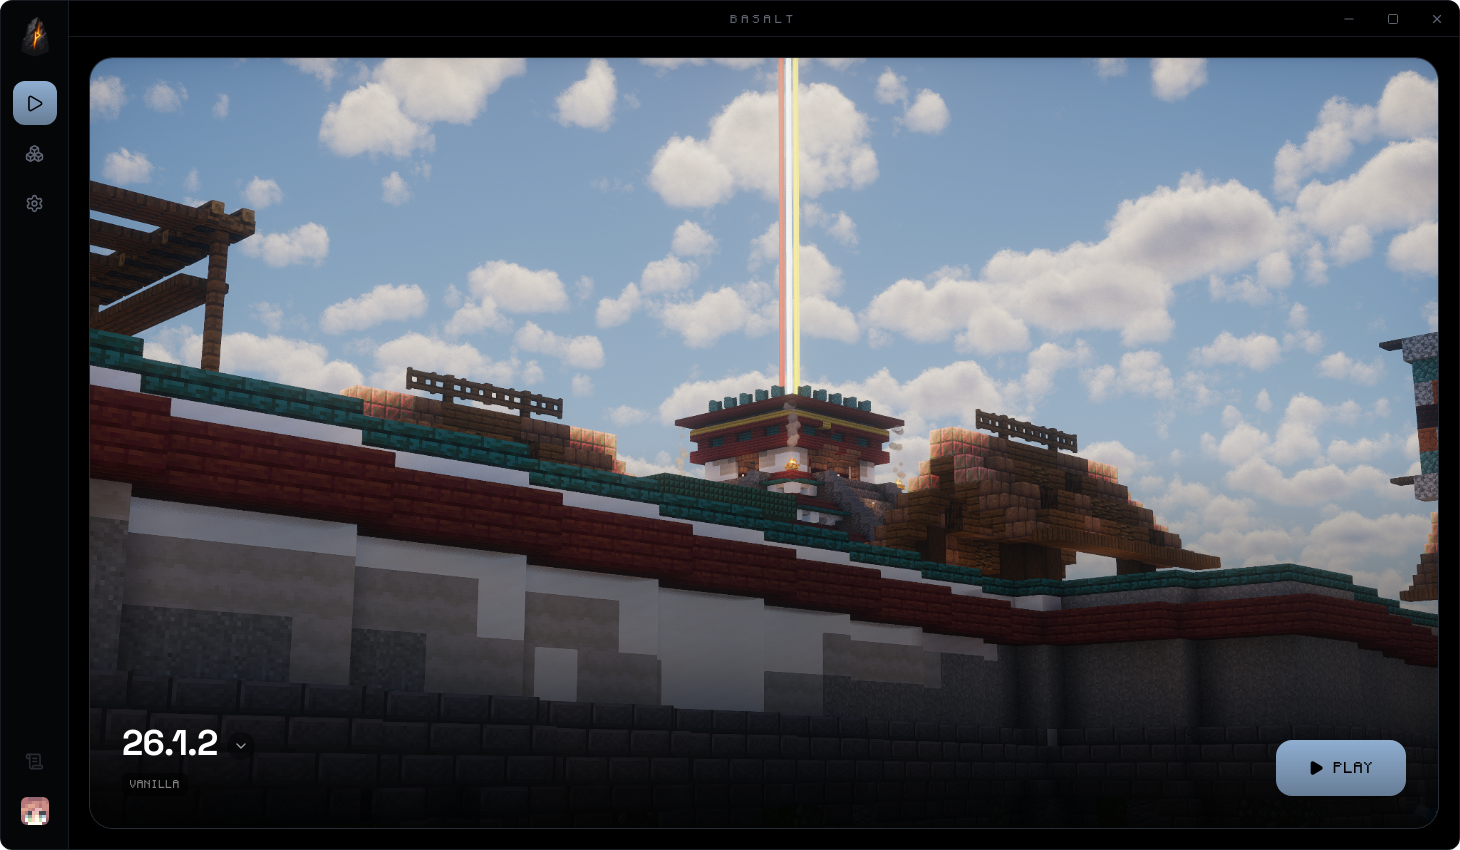
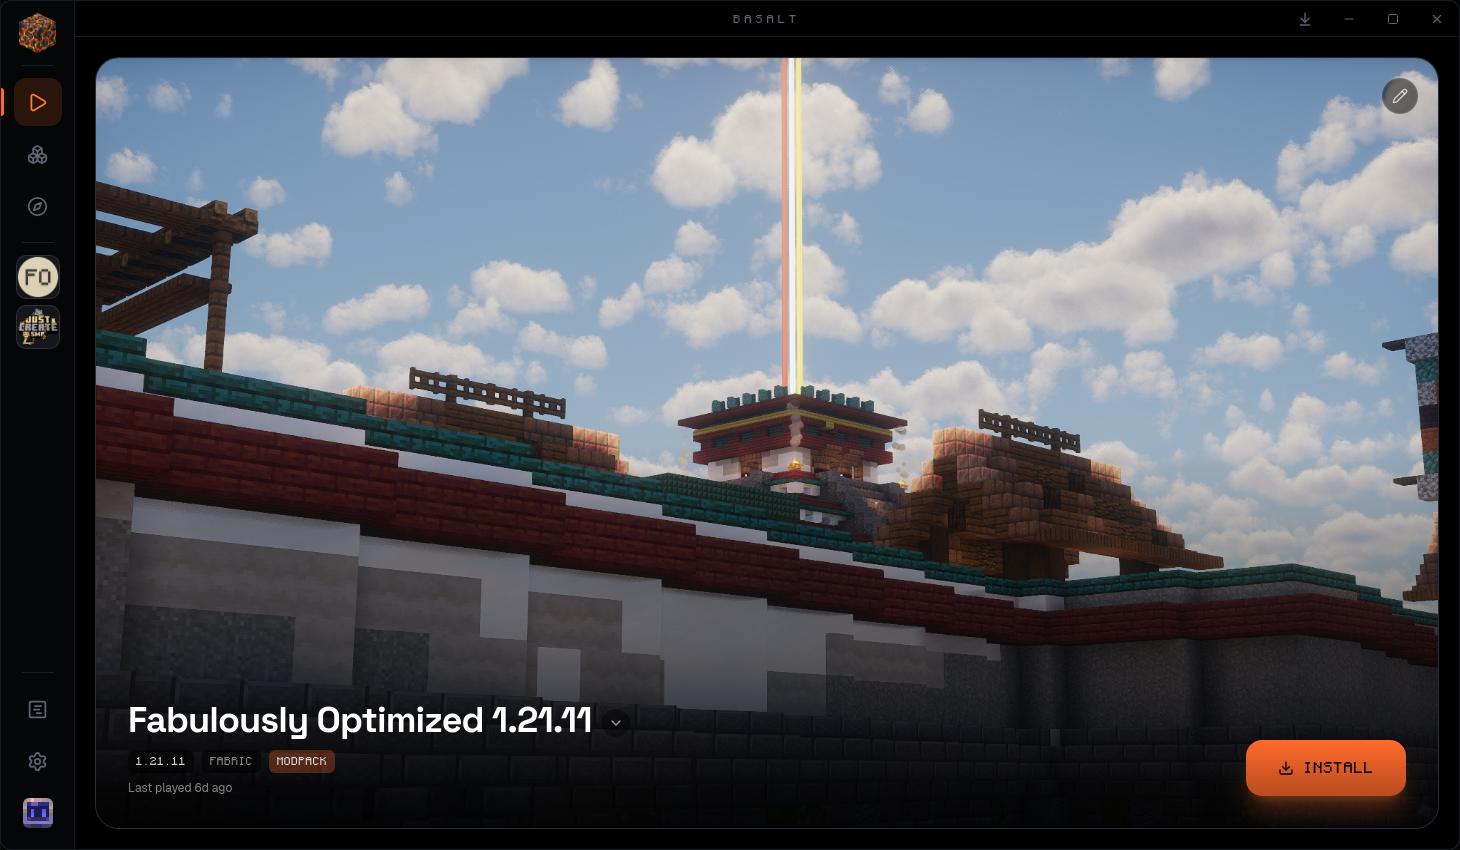
docs(readme): showcase the current launcher experience
Replace the outdated hero image with the new play view and add a curated screenshot gallery covering instance management, content discovery, launcher imports, installed mods, worlds, and account appearance.

Use descriptive alternative text and short captions so the gallery remains understandable and accessible when images cannot be viewed.

diff --git a/README.md b/README.md
@@ -8,12 +8,47 @@
   [![Tauri](https://img.shields.io/badge/Tauri-2-24C8DB?logo=tauri&logoColor=white)](https://tauri.app/)
 </div>
 
-![Basalt launcher](docs/hero.png)
+![Basalt play screen showing a Minecraft world banner](docs/hero.png)
 
 Basalt combines an artwork-led interface with the practical tools expected from a
 modern Minecraft launcher. It is designed to feel cohesive and visually considered
 without giving up control over instances, loaders, content, accounts, or launch
 settings.
+
+## Screenshots
+
+<table>
+  <tr>
+    <td width="50%">
+      <img src="docs/screenshots/basalt-14-instances-grid.png" alt="Basalt instance library">
+      <br><sub><b>Instance library</b> — keep every setup separate and easy to find.</sub>
+    </td>
+    <td width="50%">
+      <img src="docs/screenshots/basalt-15-discover-mods-search.png" alt="Discovering Minecraft mods in Basalt">
+      <br><sub><b>Content discovery</b> — search, filter, and install compatible content.</sub>
+    </td>
+  </tr>
+  <tr>
+    <td width="50%">
+      <img src="docs/screenshots/basalt-05-onboarding-import-launchers.png" alt="Importing instances from other launchers">
+      <br><sub><b>Launcher imports</b> — bring instances over without modifying the originals.</sub>
+    </td>
+    <td width="50%">
+      <img src="docs/screenshots/basalt-25-instance-mods-list.png" alt="Managing installed mods in an instance">
+      <br><sub><b>Per-instance content</b> — manage files, updates, and enabled state in one place.</sub>
+    </td>
+  </tr>
+  <tr>
+    <td width="50%">
+      <img src="docs/screenshots/basalt-29-instance-worlds.png" alt="Managing Minecraft worlds in an instance">
+      <br><sub><b>World management</b> — view and manage worlds alongside their instance.</sub>
+    </td>
+    <td width="50%">
+      <img src="docs/screenshots/basalt-40-accounts-skin-capes.png" alt="Managing Minecraft accounts, skins, and capes">
+      <br><sub><b>Accounts and appearance</b> — manage profiles, skins, and capes together.</sub>
+    </td>
+  </tr>
+</table>
 
 ## Features
 
